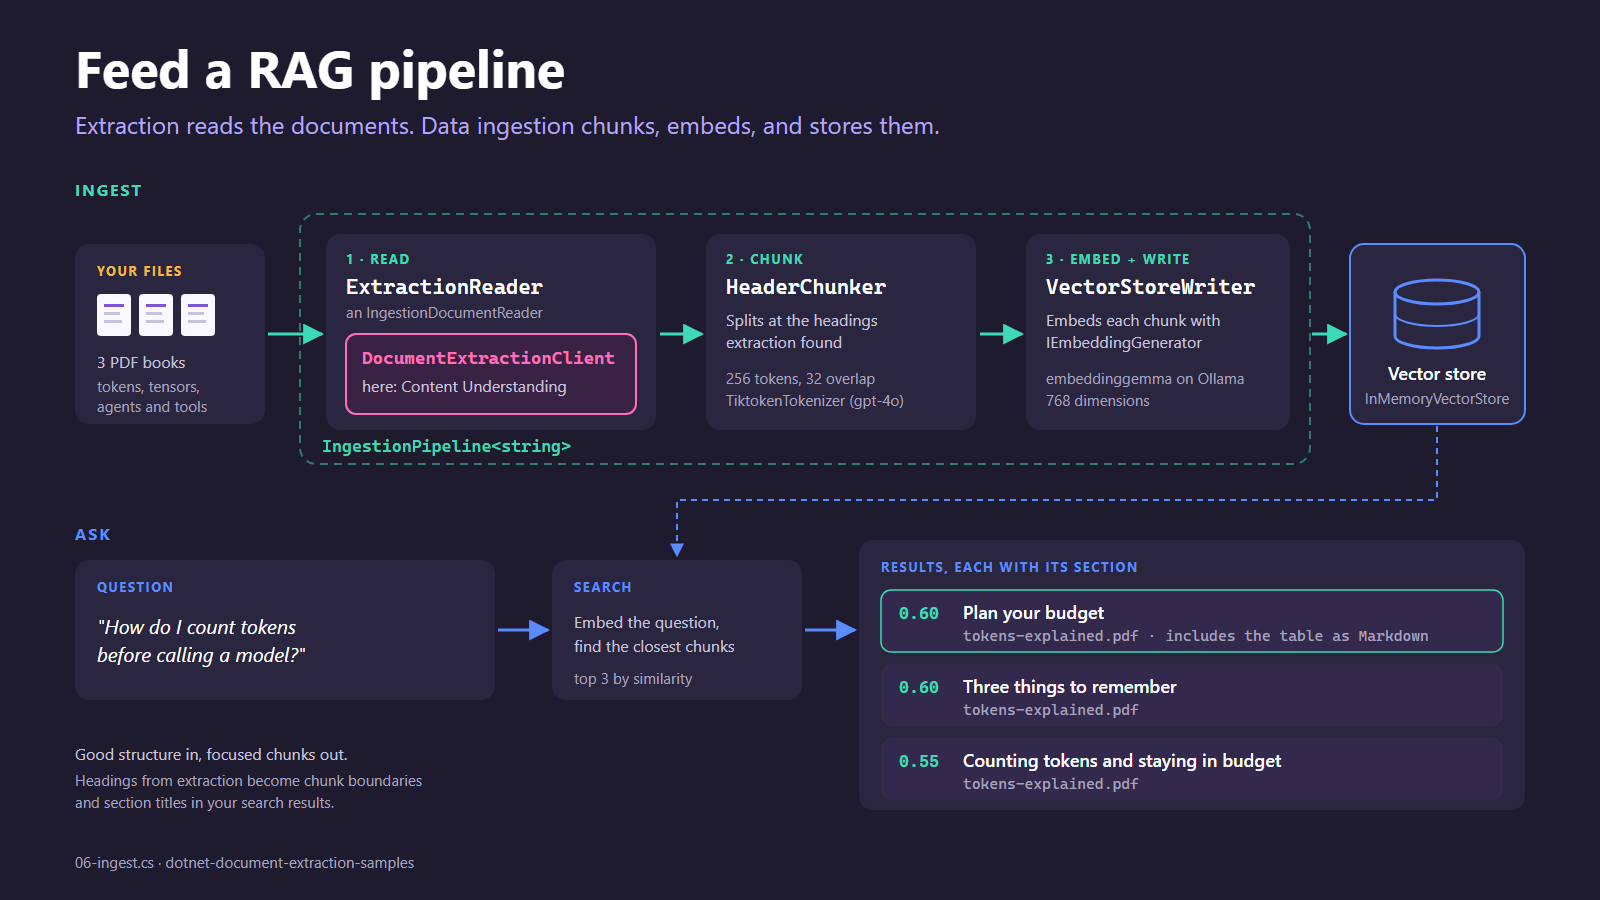
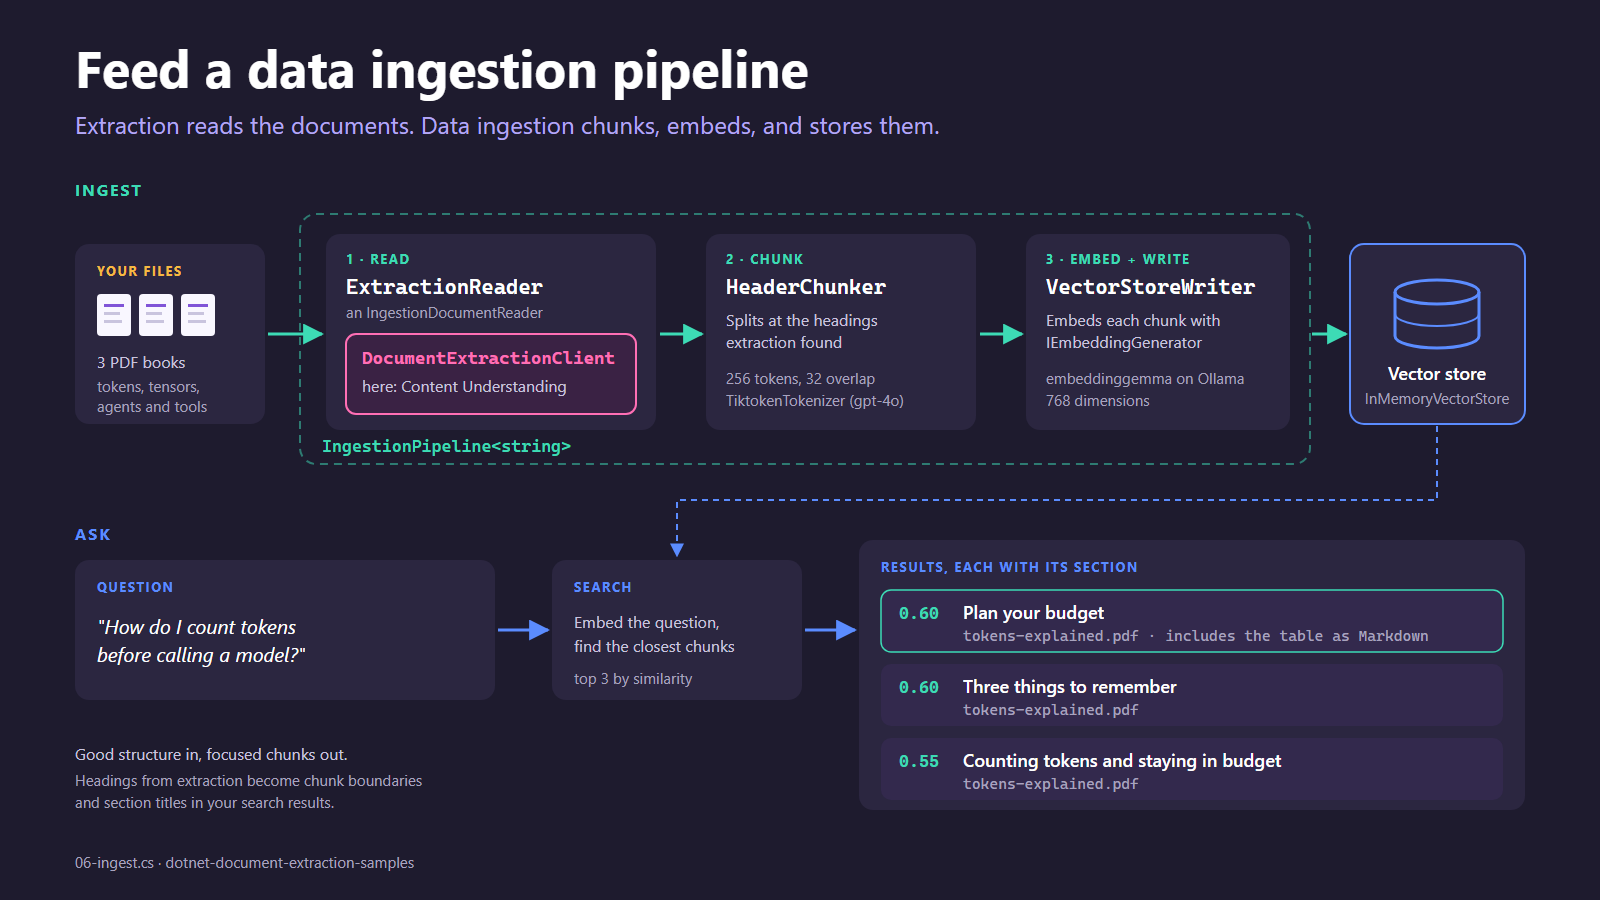
Align ingestion sample and diagram with post wording

Changed region(s): [[0.1562, 0.0311, 0.5, 0.1244]]

diff --git a/06-ingest.cs b/06-ingest.cs
@@ -1,5 +1,5 @@
 #!/usr/bin/env dotnet
-// 06: Feed a RAG pipeline.
+// 06: Feed a data ingestion pipeline, then search it (RAG).
 // Extracts the three books with any provider, turns the result into IngestionDocuments,
 // chunks at headings, embeds with a local model, and searches the result.
 //   dotnet run 06-ingest.cs
